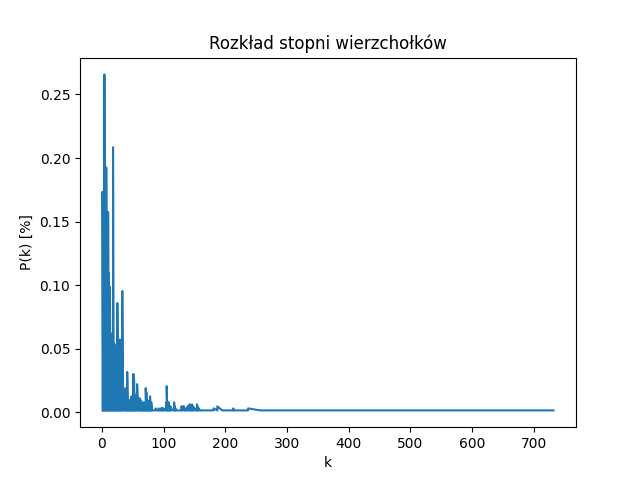
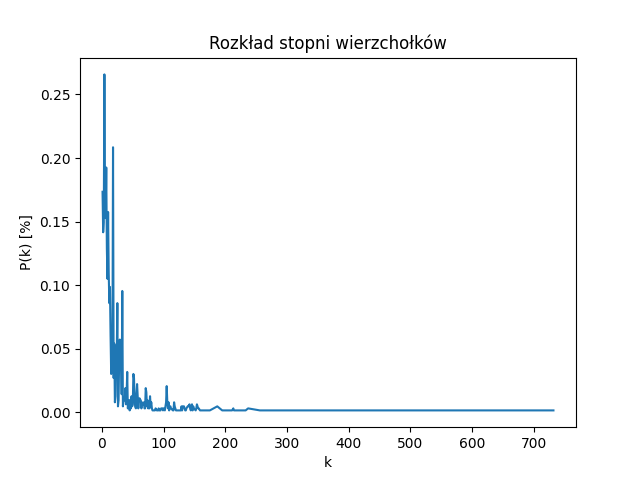
Add files via upload

Changed region(s): [[0.1562, 0.375, 0.3438, 0.875]]

diff --git a/lab/lab012/sieci.py b/lab/lab012/sieci.py
@@ -49,6 +49,10 @@ for line in degrees:
     a, b = line
 
     if (b == prev):
+        for p in range(i):
+            y_all.pop()
+        for p in range(i):
+            y_all.append(i+1)
         i = i + 1
     else:
         i = 1
@@ -58,7 +62,7 @@ for line in degrees:
     sum = sum + b
     prev = b
 
-
+print(y_all)
 for i in y_all:                 # zamiana na %
     y.append(i*100/sum)
 
@@ -93,7 +97,7 @@ print(f'Średnia najkrótsza ścieżka: {av}')
 
 print(f'Najdłuższa najkrótsza ścieżka: {max_path}')
 
-#####################################################################
+####################################################################
 
 fig = plt.figure(1, figsize=(200, 80), dpi=60)
 nx.draw(G, with_labels=True, font_weight='normal')
